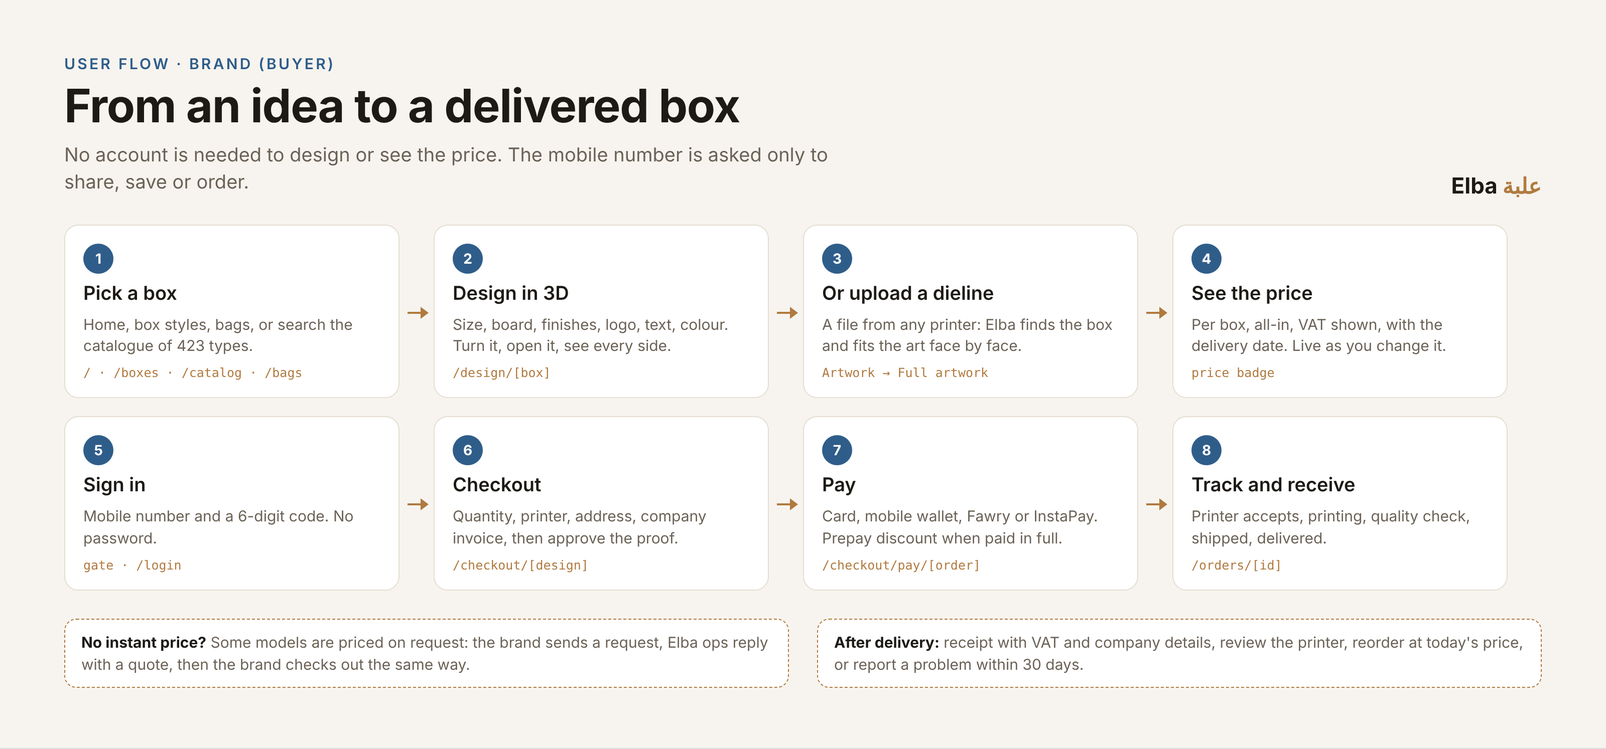
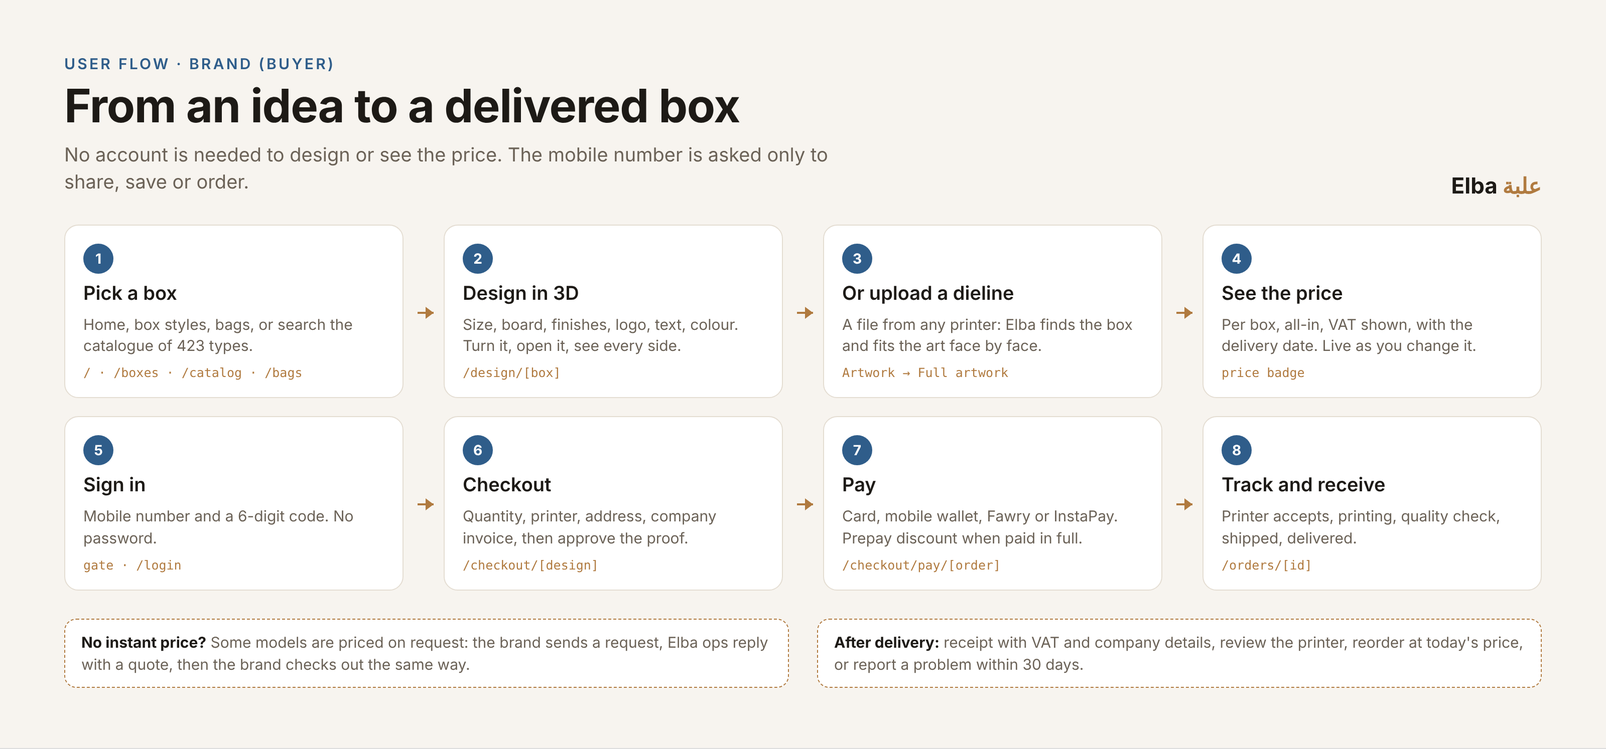
Docs: Arabic flow and feature cards (RTL, glossary terms); English cards re-rendered with arrows in the gaps
Claude-Session: https://claude.ai/code/session_01ErLBsbrJGKcLzRPdTmLyhq

diff --git a/docs/flows/cards-ar.html b/docs/flows/cards-ar.html
@@ -1,0 +1,193 @@
+<!doctype html><html lang="ar" dir="rtl"><head><meta charset="utf-8">
+<link rel="stylesheet" href="https://fonts.googleapis.com/css2?family=IBM+Plex+Sans+Arabic:wght@400;500;600;700&family=IBM+Plex+Mono:wght@500&family=Inter:wght@400;600;700&display=swap">
+<style>
+:root { --bg:#f7f4ef; --card:#fff; --ink:#1d1a16; --muted:#6b6257; --line:#e4ddd2; --kraft:#b07a3f; --kraft-soft:#f1e4d2; --buyer:#2f5d8a; --buyer-soft:#e3ecf5; --printer:#8a4f1f; --printer-soft:#f5e6d8; --ops:#4f6b3a; --ops-soft:#e6eedf; }
+* { box-sizing:border-box; margin:0; }
+body { background:#ddd; font-family:'IBM Plex Sans Arabic', Inter, system-ui, sans-serif; color:var(--ink); }
+.sheet { width:1600px; background:var(--bg); padding:56px 64px 60px; display:grid; gap:28px; margin-bottom:40px; }
+.top { display:flex; justify-content:space-between; align-items:flex-end; gap:24px; }
+.eyebrow { font:600 17px/1 'IBM Plex Sans Arabic', Inter; letter-spacing:0; color:var(--kraft); margin-bottom:10px; }
+h1 { font:700 46px/1.25 'IBM Plex Sans Arabic', Inter;  }
+.sub { font:400 19px/1.45 'IBM Plex Sans Arabic', Inter; color:var(--muted); max-width:820px; margin-top:10px; }
+.brand { font:700 22px/1 'IBM Plex Sans Arabic', Inter; color:var(--ink); white-space:nowrap; }
+.brand span { color:var(--kraft); }
+/* flow rows */
+.flow { display:grid; grid-template-columns:repeat(4, 1fr); gap:18px 40px; position:relative; }
+.step { position:relative; }
+.step .box { background:var(--card); border:1px solid var(--line); border-radius:14px; padding:18px 18px 16px; height:100%; display:grid; gap:8px; align-content:start; }
+.step:not(.last)::after { content:""; position:absolute; left:-30px; top:50%; width:16px; height:2px; background:var(--kraft); }
+.step:not(.last)::before { content:""; position:absolute; left:-36px; top:calc(50% - 5px); border:6px solid transparent; border-right:8px solid var(--kraft); }
+.step.wrap::after, .step.wrap::before { display:none; }
+.n { width:30px; height:30px; border-radius:50%; display:grid; place-items:center; font:700 14px/1 'IBM Plex Sans Arabic', Inter; color:#fff; }
+.buyer .n { background:var(--buyer); } .printer .n { background:var(--printer); }
+.t { font:600 19px/1.25 'IBM Plex Sans Arabic', Inter; }
+.d { font:400 15px/1.45 'IBM Plex Sans Arabic', Inter; color:var(--muted); }
+.path { font:500 12.5px/1.3 'IBM Plex Mono', monospace; color:var(--kraft); }
+.tag { display:inline-block; font:600 12px/1 'IBM Plex Sans Arabic', Inter; padding:5px 8px; border-radius:6px; }
+.tag.alt { background:var(--kraft-soft); color:var(--ink); }
+.note { font:400 15px/1.5 'IBM Plex Sans Arabic', Inter; color:var(--muted); display:flex; gap:22px; flex-wrap:wrap; }
+.note b { color:var(--ink); font-weight:600; }
+.branch { background:var(--card); border:1px dashed var(--kraft); border-radius:12px; padding:12px 16px; font:400 15px/1.45 'IBM Plex Sans Arabic', Inter; color:var(--muted); }
+.branch b { color:var(--ink); }
+.rowlabel { font:600 15px/1 'IBM Plex Sans Arabic', Inter; letter-spacing:0; color:var(--muted); grid-column:1/-1; margin-top:6px; }
+/* lifecycle */
+.states { display:flex; align-items:center; gap:0; }
+.st { flex:1; text-align:center; min-height:76px; display:flex; flex-direction:column; justify-content:center; background:var(--card); border:1px solid var(--line); border-radius:10px; padding:14px 6px; font:600 14px/1.2 'IBM Plex Sans Arabic', Inter; }
+.st small { display:block; font:400 12.5px/1.3 'IBM Plex Sans Arabic', Inter; color:var(--muted); margin-top:4px; }
+.arr { width:26px; text-align:center; color:var(--kraft); font:700 20px/1 Inter, sans-serif; flex:none; }
+.st.b { border-top:4px solid var(--buyer); } .st.p { border-top:4px solid var(--printer); } .st.o { border-top:4px solid var(--ops); } .st.s { border-top:4px solid #9a8f80; }
+.lanes { display:grid; grid-template-columns:repeat(3,1fr); gap:18px; }
+.lane { border-radius:14px; padding:20px 22px; display:grid; gap:10px; align-content:start; }
+.lane h3 { font:700 20px/1.2 'IBM Plex Sans Arabic', Inter; }
+.lane ul { padding-inline-start:22px; display:grid; gap:6px; font:400 16px/1.45 'IBM Plex Sans Arabic', Inter; }
+.lane.b { background:var(--buyer-soft); } .lane.b h3 { color:var(--buyer); }
+.lane.p { background:var(--printer-soft); } .lane.p h3 { color:var(--printer); }
+.lane.o { background:var(--ops-soft); } .lane.o h3 { color:var(--ops); }
+.legend { display:flex; gap:18px; font:500 14px/1 'IBM Plex Sans Arabic', Inter; color:var(--muted); }
+.legend i { display:inline-block; width:14px; height:4px; border-radius:2px; vertical-align:middle; margin-inline-end:8px; }
+/* features */
+.groups { display:grid; grid-template-columns:repeat(3,1fr); gap:18px; align-items:stretch; }
+.group { background:var(--card); border:1px solid var(--line); border-radius:14px; padding:20px 22px; display:grid; gap:12px; align-content:start; }
+.group h3 { font:700 19px/1.2 'IBM Plex Sans Arabic', Inter; display:flex; justify-content:space-between; align-items:baseline; }
+.group h3 span { font:500 13px/1 'IBM Plex Mono', monospace; color:var(--kraft); }
+.feat { display:grid; gap:2px; padding-top:10px; border-top:1px solid var(--line); }
+.feat:first-of-type { border-top:0; padding-top:0; }
+.feat .f { font:600 15.5px/1.3 'IBM Plex Sans Arabic', Inter; }
+.feat .x { font:400 14.5px/1.4 'IBM Plex Sans Arabic', Inter; color:var(--muted); }
+.span2 { grid-column:span 2; }
+.cols2 { display:grid; grid-template-columns:1fr 1fr; gap:10px 28px; }
+.cols2 .feat:nth-child(2) { border-top:0; padding-top:0; }
+.foot { font:400 14px/1.4 'IBM Plex Sans Arabic', Inter; color:var(--muted); display:flex; justify-content:space-between; }
+
+.path, .ltr { direction:ltr; unicode-bidi:isolate; text-align:right; }
+.brand { direction:rtl; }
+.path.ar { direction:rtl; font:500 14px/1.3 'IBM Plex Sans Arabic', sans-serif; }
+</style></head><body>
+
+<section class="sheet" id="brand">
+  <div class="top"><div><div class="eyebrow" style="color:var(--buyer)">رحلة المستخدم · العميل</div><h1>من الفكرة إلى استلام العلب</h1>
+  <p class="sub">التصميم ومعرفة السعر دون حساب. رقم المحمول مطلوب فقط عند المشاركة أو الحفظ أو الطلب.</p></div><div class="brand">علبة <span>Elba</span></div></div>
+  <div class="flow buyer">
+    <div class="step"><div class="box"><div class="n">1</div><div class="t">اختيار العلبة</div><div class="d">الصفحة الرئيسية أو أنواع العلب أو الأكياس، أو البحث في الكتالوج بين 423 نوعا.</div><div class="path">/ · /boxes · /catalog · /bags</div></div></div>
+    <div class="step"><div class="box"><div class="n">2</div><div class="t">التصميم ثلاثي الأبعاد</div><div class="d">المقاس والخامة والتشطيب والشعار والنص واللون، مع تدوير العلبة وفتحها ورؤية كل الجوانب.</div><div class="path">/design/[box]</div></div></div>
+    <div class="step"><div class="box"><div class="n">3</div><div class="t">أو رفع القالب</div><div class="d">ملف من أي مطبعة: تتعرف علبة على نوع العلبة وتوزع التصميم على كل وجه.</div><div class="path ar">التصميم ← التصميم الكامل</div></div></div>
+    <div class="step last"><div class="box"><div class="n">4</div><div class="t">معرفة السعر</div><div class="d">السعر الفوري للعلبة شاملا كل شيء، مع ضريبة القيمة المضافة وموعد التسليم.</div><div class="path ar">شارة السعر</div></div></div>
+    <div class="step"><div class="box"><div class="n">5</div><div class="t">تسجيل الدخول</div><div class="d">رقم المحمول ورمز تحقق من 6 أرقام، دون كلمة مرور.</div><div class="path">/login</div></div></div>
+    <div class="step"><div class="box"><div class="n">6</div><div class="t">إتمام الطلب</div><div class="d">الكمية والمطبعة والعنوان وبيانات الشركة، ثم اعتماد البروفة.</div><div class="path">/checkout/[design]</div></div></div>
+    <div class="step"><div class="box"><div class="n">7</div><div class="t">الدفع</div><div class="d">بطاقة أو محفظة إلكترونية أو فوري أو إنستاباي، مع خصم عند الدفع الكامل مقدما.</div><div class="path">/checkout/pay/[order]</div></div></div>
+    <div class="step last"><div class="box"><div class="n">8</div><div class="t">المتابعة والاستلام</div><div class="d">قبول المطبعة ثم الطباعة وفحص الجودة والشحن والتسليم.</div><div class="path">/orders/[id]</div></div></div>
+  </div>
+  <div class="cols2">
+    <div class="branch"><b>لا يوجد سعر فوري؟</b> بعض النماذج سعرها عند الطلب: يرسل العميل طلب عرض سعر، ويرد فريق علبة بعرض السعر، ثم يتم الطلب بالخطوات نفسها.</div>
+    <div class="branch"><b>بعد التسليم:</b> إيصال الطلب موضحا فيه الضريبة وبيانات الشركة، وتقييم المطبعة، وإعادة الطلب بسعر اليوم، أو الإبلاغ عن مشكلة خلال 30 يوما.</div>
+  </div>
+</section>
+
+<section class="sheet" id="printer">
+  <div class="top"><div><div class="eyebrow" style="color:var(--printer)">رحلة المستخدم · المطبعة</div><h1>من طلب الانضمام إلى تحويل المستحقات</h1>
+  <p class="sub">ترى المطبعة الطلب والتصميم المعتمد وسعرها فقط، ولا ترى بيانات تواصل العميل: علبة تتولى كل التواصل معه.</p></div><div class="brand">علبة <span>Elba</span></div></div>
+  <div class="flow printer">
+    <div class="rowlabel">مرة واحدة عند الانضمام</div>
+    <div class="step"><div class="box"><div class="n">1</div><div class="t">طلب الانضمام</div><div class="d">بيانات المطبعة والماكينات والخامات والتشطيبات والمستندات.</div><div class="path">/vendor/apply</div></div></div>
+    <div class="step"><div class="box"><div class="n">2</div><div class="t">اعتماد علبة</div><div class="d">يراجع فريق علبة المطبعة ويعتمدها.</div></div></div>
+    <div class="step"><div class="box"><div class="n">3</div><div class="t">ضبط الأسعار</div><div class="d">تصل قوائم أسعار مبدئية متوقفة، تراجعها المطبعة وتفعل كل قائمة.</div><div class="path">/vendor/rate-cards</div></div></div>
+    <div class="step last"><div class="box"><div class="n">4</div><div class="t">إعداد الملف</div><div class="d">الطاقة الإنتاجية ومدة التنفيذ ومناطق التوصيل ونماذج الأعمال.</div><div class="path">/vendor/profile</div></div></div>
+    <div class="rowlabel">مع كل طلب</div>
+    <div class="step"><div class="box"><div class="n">5</div><div class="t">طلب مدفوع جديد</div><div class="d">القبول أو الاعتذار خلال 24 ساعة.</div><div class="path">/vendor/jobs</div></div></div>
+    <div class="step"><div class="box"><div class="n">6</div><div class="t">قبول الطلب</div><div class="d">فتح ملف الطباعة والقالب، وإصدار دفعة مقدمة 40%.</div><div class="path">/vendor/jobs/[number]</div></div></div>
+    <div class="step"><div class="box"><div class="n">7</div><div class="t">الطباعة وفحص الجودة</div><div class="d">بدء الإنتاج، ثم صورة أول فرخ مطبوع وصورة الحزمة المغلفة.</div><div class="path ar">صور فحص الجودة</div></div></div>
+    <div class="step last"><div class="box"><div class="n">8</div><div class="t">التسليم وتحويل المستحقات</div><div class="d">استلام شركة الشحن، ثم تحويل باقي المستحقات 60% بعد التسليم.</div><div class="path">/vendor/payouts</div></div></div>
+  </div>
+  <div class="cols2">
+    <div class="branch"><b>اعتذار عن طلب؟</b> يبقى الطلب مدفوعا، ويحوله فريق علبة إلى مطبعة أخرى.</div>
+    <div class="branch"><b>عدم اجتياز فحص الجودة؟</b> يعود الطلب إلى الإنتاج مع ملاحظات الفريق، وتعيد المطبعة الإرسال بعد الإصلاح.</div>
+  </div>
+</section>
+
+<section class="sheet" id="lifecycle">
+  <div class="top"><div><div class="eyebrow">مراحل الطلب</div><h1>من يحرك الطلب في كل مرحلة</h1>
+  <p class="sub">كل تغيير في حالة الطلب يمر بقواعد واحدة، فيرى العميل والمطبعة وفريق علبة الطلب نفسه دائما.</p></div><div class="brand">علبة <span>Elba</span></div></div>
+  <div class="states">
+    <div class="st b">بانتظار الدفع<small>تسجيل الطلب</small></div><div class="arr">←</div>
+    <div class="st s">مدفوع<small>تأكيد الدفع</small></div><div class="arr">←</div>
+    <div class="st p">قبول المطبعة</div><div class="arr">←</div>
+    <div class="st p">قيد الطباعة</div><div class="arr">←</div>
+    <div class="st p">قيد فحص الجودة<small>إرسال الصور</small></div><div class="arr">←</div>
+    <div class="st o">جاهز للشحن<small>اجتياز فحص الجودة</small></div><div class="arr">←</div>
+    <div class="st o">تم الشحن</div><div class="arr">←</div>
+    <div class="st s">تم التسليم</div>
+  </div>
+  <div class="legend"><span><i style="background:var(--buyer)"></i>العميل</span><span><i style="background:var(--printer)"></i>المطبعة</span><span><i style="background:var(--ops)"></i>فريق علبة</span><span><i style="background:#9a8f80"></i>تلقائي (الدفع وشركة الشحن)</span></div>
+  <div class="lanes">
+    <div class="lane b"><h3>العميل</h3><ul><li>تسجيل الطلب ودفعه</li><li>إلغاء الطلب قبل الدفع</li><li>التقييم أو إعادة الطلب أو الإبلاغ عن مشكلة</li></ul></div>
+    <div class="lane p"><h3>المطبعة</h3><ul><li>قبول الطلب المدفوع أو الاعتذار عنه</li><li>بدء الإنتاج</li><li>إرسال صور فحص الجودة</li></ul></div>
+    <div class="lane o"><h3>فريق علبة</h3><ul><li>اعتماد صور فحص الجودة أو رفضها</li><li>حجز شركة الشحن</li><li>استرداد المبلغ قبل الشحن، والبت في البلاغات، وتحويل مستحقات المطابع</li></ul></div>
+  </div>
+</section>
+
+<section class="sheet" id="features-brand">
+  <div class="top"><div><div class="eyebrow">المزايا · للعملاء</div><h1>كل ما يمكن للعميل فعله</h1></div><div class="brand">علبة <span>Elba</span></div></div>
+  <div class="groups">
+    <div class="group"><h3>الموقع</h3>
+      <div class="feat"><div class="f">الصفحة الرئيسية</div><div class="x">علب مطبوعة بشعار مشروعك، مع أسعار تبدأ من الآن.</div></div>
+      <div class="feat"><div class="f">البداية</div><div class="x">اختيار ما تريد تغليفه، ثم الوصول إلى العلبة المناسبة.</div></div>
+      <div class="feat"><div class="f">أنواع العلب ومقاساتها</div><div class="x">كل علبة بأسعارها حسب الكمية وزر الطلب.</div></div>
+      <div class="feat"><div class="f">الأكياس والزجاجات</div><div class="x">أكياس ورقية وبلاستيكية وقابلة لإعادة الاستخدام، وزجاجات وبرطمانات بملصقات.</div></div>
+      <div class="feat"><div class="f">الكتالوج</div><div class="x">كل أنواع التغليف الـ 423، مع البحث.</div></div>
+      <div class="feat"><div class="f">الأسعار · لماذا علبة</div><div class="x">طريقة حساب السعر، وسعر واحد ومطابع معتمدة وفحص جودة قبل الشحن.</div></div>
+      <div class="feat"><div class="f">المطابع</div><div class="x">مطابع معتمدة بماكيناتها ونماذج أعمالها وتقييمها.</div></div>
+    </div>
+    <div class="group"><h3>المصمم ثلاثي الأبعاد <span>387 نموذجا</span></h3>
+      <div class="feat"><div class="f">مجسم حي</div><div class="x">تدوير وتكبير وفتح العلبة، مع عرض القالب المفرود وعرض كل وجه.</div></div>
+      <div class="feat"><div class="f">الأساسيات / كل الخيارات</div><div class="x">الشعار والاسم واللون والمقاس، أو كل الخامات والتشطيبات والطبقات.</div></div>
+      <div class="feat"><div class="f">التصميم الكامل</div><div class="x">رفع ملف طباعة جاهز للوجه الخارجي والداخلي.</div></div>
+      <div class="feat"><div class="f">التعرف على القالب</div><div class="x">ملف من مطبعة أخرى: تتعرف علبة على العلبة وتوزع التصميم على كل وجه.</div></div>
+      <div class="feat"><div class="f">فحص الملاءمة والطباعة</div><div class="x">تنبيه عند القص أو انخفاض الدقة أو قرب النص من خطوط الطي.</div></div>
+      <div class="feat"><div class="f">الأبعاد · علبة المقارنة</div><div class="x">المقاس الحقيقي بالسنتيمتر وعلبة مشروبات للمقارنة، وكلاهما في الشريط السفلي.</div></div>
+      <div class="feat"><div class="f">التنزيل · المشاركة · الحفظ التلقائي</div><div class="x">صور PNG وصورة واقعية وملف PDF للطباعة، ورابط مشاركة، وحفظ أثناء العمل.</div></div>
+    </div>
+    <div class="group"><h3>الشراء</h3>
+      <div class="feat"><div class="f">السعر الفوري</div><div class="x">سعر العلبة شاملا كل شيء، مع ضريبة القيمة المضافة 14% وموعد التسليم.</div></div>
+      <div class="feat"><div class="f">طلب عرض سعر</div><div class="x">للنماذج التي سعرها عند الطلب.</div></div>
+      <div class="feat"><div class="f">تسجيل الدخول</div><div class="x">رقم المحمول ورمز تحقق من 6 أرقام.</div></div>
+      <div class="feat"><div class="f">إتمام الطلب</div><div class="x">الكمية والمطبعة والعنوان وبيانات الشركة واعتماد البروفة.</div></div>
+      <div class="feat"><div class="f">الدفع</div><div class="x">بطاقة أو محفظة إلكترونية أو فوري أو إنستاباي عبر Paymob.</div></div>
+      <div class="feat"><div class="f">الطلبات · إيصال الطلب</div><div class="x">المتابعة وصور فحص الجودة والإيصال وإعادة الطلب والتقييم والإبلاغ.</div></div>
+      <div class="feat"><div class="f">الحساب</div><div class="x">التصميمات والطلبات وألوان العلامة وطلبات الخصوصية.</div></div>
+    </div>
+  </div>
+</section>
+
+<section class="sheet" id="features-ops">
+  <div class="top"><div><div class="eyebrow">المزايا · للمطابع وفريق علبة</div><h1>بوابة المطبعة والإدارة والمنصة</h1></div><div class="brand">علبة <span>Elba</span></div></div>
+  <div class="groups">
+    <div class="group"><h3 style="color:var(--printer)">بوابة المطبعة</h3>
+      <div class="feat"><div class="f">طلب الانضمام</div><div class="x">طلب الطباعة لصالح علبة.</div></div>
+      <div class="feat"><div class="f">الرئيسية</div><div class="x">الطلبات الجديدة ومواعيد التسليم والمستحقات القادمة.</div></div>
+      <div class="feat"><div class="f">الطلبات</div><div class="x">الطلبات المدفوعة حسب الحالة، مع القبول أو الاعتذار.</div></div>
+      <div class="feat"><div class="f">صفحة الطلب</div><div class="x">المواصفات والتصميم وملفات الطباعة والإنتاج وصور فحص الجودة والملاحظات.</div></div>
+      <div class="feat"><div class="f">قوائم الأسعار</div><div class="x">أسعار المطبعة حسب نوع العلبة والخامة والكمية.</div></div>
+      <div class="feat"><div class="f">الملف</div><div class="x">الماكينات والتشطيبات ومدة التنفيذ ومناطق التوصيل ونماذج الأعمال.</div></div>
+      <div class="feat"><div class="f">المستحقات</div><div class="x">40% عند القبول و60% بعد التسليم.</div></div>
+    </div>
+    <div class="group"><h3 style="color:var(--ops)">الإدارة</h3>
+      <div class="feat"><div class="f">نظرة عامة · الطلبات</div><div class="x">ما يحتاج إجراء، واعتماد الجودة والشحن والاسترداد وتحويل الطلب.</div></div>
+      <div class="feat"><div class="f">المطابع</div><div class="x">طلبات الانضمام والاعتماد والإيقاف.</div></div>
+      <div class="feat"><div class="f">البلاغات · عروض الأسعار</div><div class="x">مشكلات العملاء، وطلبات عروض الأسعار المنتظرة للرد.</div></div>
+      <div class="feat"><div class="f">المراجعة</div><div class="x">التقييمات ونبذ المطابع وصور الأعمال قبل نشرها.</div></div>
+      <div class="feat"><div class="f">الأسعار · الكتالوج</div><div class="x">الهامش والضريبة وخصم الدفع المقدم، والنماذج المعروضة.</div></div>
+      <div class="feat"><div class="f">المستحقات · المستخدمون</div><div class="x">تحويل مستحقات المطابع، والحسابات والأدوار.</div></div>
+      <div class="feat"><div class="f">سجل التعديلات · الخصوصية</div><div class="x">كل تعديل إداري، وطلبات البيانات وفق قانون حماية البيانات.</div></div>
+    </div>
+    <div class="group"><h3>المنصة</h3>
+      <div class="feat"><div class="f">العربية والإنجليزية</div><div class="x">العربية أولا من اليمين إلى اليسار، والإنجليزية في كل صفحة.</div></div>
+      <div class="feat"><div class="f">علبة هي البائع</div><div class="x">تبيع علبة بسعرها، وتشتري من المطبعة بسعر قائمة الأسعار.</div></div>
+      <div class="feat"><div class="f">الحسابات المالية</div><div class="x">دقة حتى القرش، وضريبة القيمة المضافة 14%، وخصم الدفع المقدم.</div></div>
+      <div class="feat"><div class="f">الشحن</div><div class="x">شركة بوسطة في كل المحافظات.</div></div>
+      <div class="feat"><div class="f">الإشعارات</div><div class="x">واتساب ورسائل نصية وبريد إلكتروني في كل مرحلة (مزودو الخدمة قيد الربط).</div></div>
+      <div class="feat"><div class="f">الخصوصية</div><div class="x">الموافقة والاحتفاظ بالبيانات وطلباتها وفق القانون رقم 151 لسنة 2020.</div></div>
+      <div class="feat"><div class="f">الاستضافة</div><div class="x">منصة Cloudflare مع قاعدة بيانات Neon وتخزين R2 للملفات.</div></div>
+    </div>
+  </div>
+</section>
+</body></html>

diff --git a/docs/flows/cards.html b/docs/flows/cards.html
@@ -16,11 +16,11 @@ h1 { font:700 46px/1.08 Inter; letter-spacing:-.015em; }
 .brand { font:700 22px/1 Inter; color:var(--ink); white-space:nowrap; }
 .brand span { color:var(--kraft); }
 /* flow rows */
-.flow { display:grid; grid-template-columns:repeat(4, 1fr); gap:18px 0; position:relative; }
-.step { position:relative; padding-right:34px; }
+.flow { display:grid; grid-template-columns:repeat(4, 1fr); gap:18px 40px; position:relative; }
+.step { position:relative; }
 .step .box { background:var(--card); border:1px solid var(--line); border-radius:14px; padding:18px 18px 16px; height:100%; display:grid; gap:8px; align-content:start; }
-.step:not(.last)::after { content:""; position:absolute; right:8px; top:50%; width:18px; height:2px; background:var(--kraft); }
-.step:not(.last)::before { content:""; position:absolute; right:7px; top:calc(50% - 5px); border:6px solid transparent; border-left:8px solid var(--kraft); transform:translateX(8px); }
+.step:not(.last)::after { content:""; position:absolute; right:-30px; top:50%; width:16px; height:2px; background:var(--kraft); }
+.step:not(.last)::before { content:""; position:absolute; right:-36px; top:calc(50% - 5px); border:6px solid transparent; border-left:8px solid var(--kraft); }
 .step.wrap::after, .step.wrap::before { display:none; }
 .n { width:30px; height:30px; border-radius:50%; display:grid; place-items:center; font:700 14px/1 Inter; color:#fff; }
 .buyer .n { background:var(--buyer); } .printer .n { background:var(--printer); }
@@ -38,7 +38,7 @@ h1 { font:700 46px/1.08 Inter; letter-spacing:-.015em; }
 .states { display:flex; align-items:center; gap:0; }
 .st { flex:1; text-align:center; min-height:76px; display:flex; flex-direction:column; justify-content:center; background:var(--card); border:1px solid var(--line); border-radius:10px; padding:14px 6px; font:600 14px/1.2 Inter; }
 .st small { display:block; font:400 12.5px/1.3 Inter; color:var(--muted); margin-top:4px; }
-.arr { width:26px; text-align:center; color:var(--kraft); font:700 18px/1 Inter; flex:none; }
+.arr { width:26px; text-align:center; color:var(--kraft); font:700 20px/1 Inter, sans-serif; flex:none; }
 .st.b { border-top:4px solid var(--buyer); } .st.p { border-top:4px solid var(--printer); } .st.o { border-top:4px solid var(--ops); } .st.s { border-top:4px solid #9a8f80; }
 .lanes { display:grid; grid-template-columns:repeat(3,1fr); gap:18px; }
 .lane { border-radius:14px; padding:20px 22px; display:grid; gap:10px; align-content:start; }
@@ -48,7 +48,7 @@ h1 { font:700 46px/1.08 Inter; letter-spacing:-.015em; }
 .lane.p { background:var(--printer-soft); } .lane.p h3 { color:var(--printer); }
 .lane.o { background:var(--ops-soft); } .lane.o h3 { color:var(--ops); }
 .legend { display:flex; gap:18px; font:500 14px/1 Inter; color:var(--muted); }
-.legend i { display:inline-block; width:14px; height:4px; border-radius:2px; vertical-align:middle; margin-right:6px; }
+.legend i { display:inline-block; width:14px; height:4px; border-radius:2px; vertical-align:middle; margin-inline-end:8px; }
 /* features */
 .groups { display:grid; grid-template-columns:repeat(3,1fr); gap:18px; align-items:stretch; }
 .group { background:var(--card); border:1px solid var(--line); border-radius:14px; padding:20px 22px; display:grid; gap:12px; align-content:start; }

diff --git a/docs/flows/README.md b/docs/flows/README.md
@@ -7,3 +7,13 @@ Rendered from `cards.html` at 2x (1600 px wide cards). Re-render: open `cards.ht
 3. `3-order-lifecycle.png`
 4. `4-features-brands.png`
 5. `5-features-printers-ops.png`
+
+Arabic (right to left, `cards-ar.html`, IBM Plex Sans Arabic from Google Fonts):
+
+1. `ar-1-rehlat-al-ameel.png` (رحلة العميل)
+2. `ar-2-rehlat-al-matbaa.png` (رحلة المطبعة)
+3. `ar-3-marahel-al-talab.png` (مراحل الطلب)
+4. `ar-4-mazaya-al-umala.png` (مزايا العملاء)
+5. `ar-5-mazaya-al-matabe-wal-idara.png` (مزايا المطابع والإدارة والمنصة)
+
+Terms follow `docs/audit/platform-glossary.md`.
